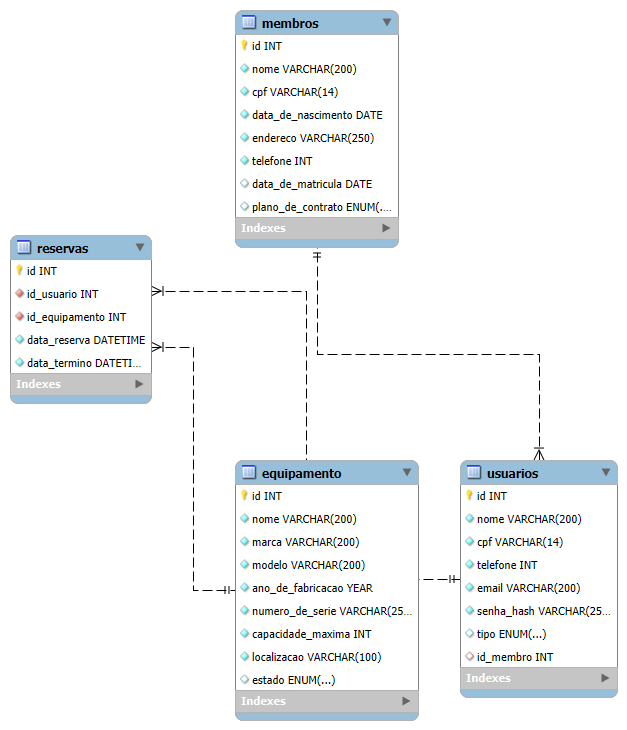
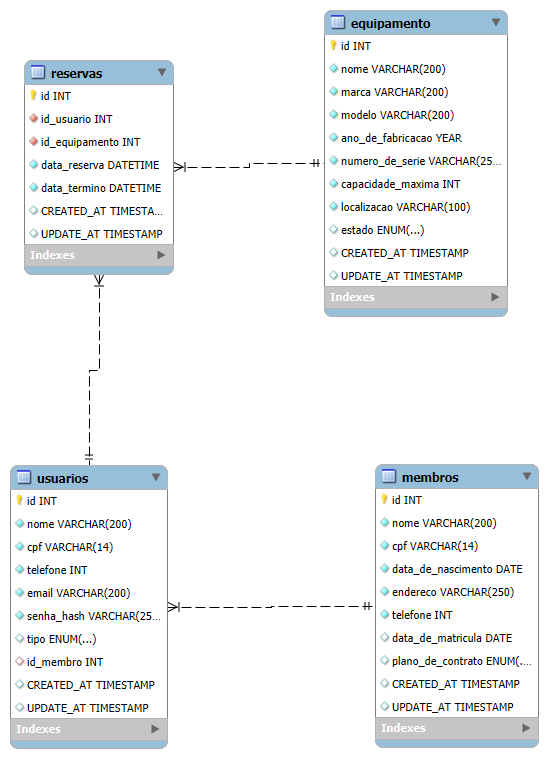
feat: added TIMESTAMPS control to DataBase script and DER visual

diff --git a/backend/app/Models/EquipamentoModel.php b/backend/app/Models/EquipamentoModel.php
@@ -1,0 +1,18 @@
+<?php
+
+namespace App\Models;
+
+use Illuminate\Database\Eloquent\Model;
+
+class EquipamentoModel extends Model
+{
+    protected $table = "equipamento";
+    protected  $fillable = [
+        "nome",
+        "marca",
+        "modelo",
+        "ano_de_fabricacao",
+        "numero_de_serie",
+
+    ]
+}
